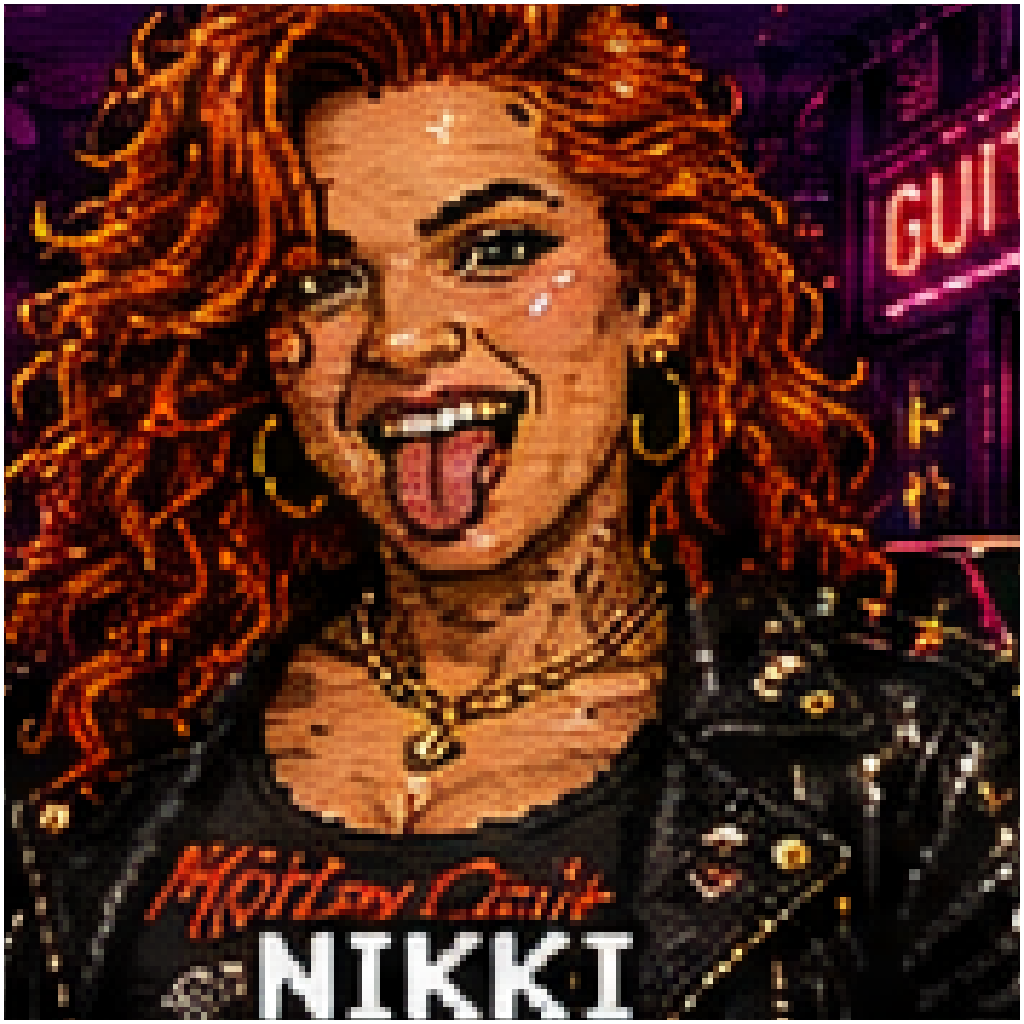
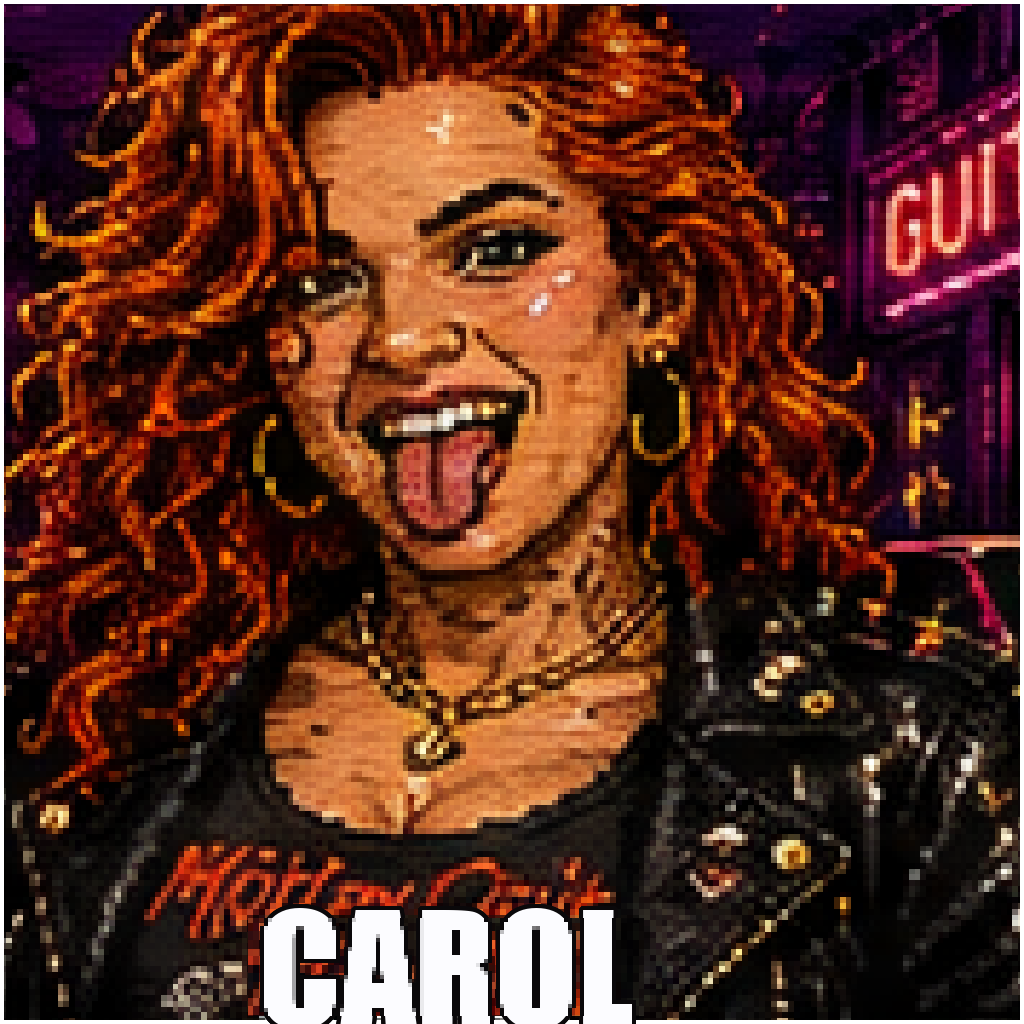
Ship Carol on the face grid and raise her and Enzo to the 80% AI ladder.
Puts Carol fourth instead of Flufe, paints the card nameplate, and keeps experts off Thunder Basin when the bobo lane runs short.

Changed region(s): [[0.2188, 0.875, 0.625, 1.0]]

diff --git a/tests/domain/ai/DriverProfile.test.ts b/tests/domain/ai/DriverProfile.test.ts
@@ -7,12 +7,13 @@ import {
   SIGNATURE_PROFILES,
 } from '../../../src/domain/ai/DriverProfile.ts';
 import { deriveProfile } from '../../../src/domain/ai/deriveProfile.ts';
+import { driverSkill } from '../../../src/domain/race/WatchField.ts';
 
 describe('driver profiles', () => {
   it('ships exactly 30 catalog rows', () => {
     expect(catalogSize()).toBe(30);
     expect(ALL_PROFILES).toHaveLength(30);
-    expect(SIGNATURE_PROFILES).toHaveLength(9);
+    expect(SIGNATURE_PROFILES).toHaveLength(10);
     expect(MEDIUM_PROFILES).toHaveLength(10);
   });
 
@@ -20,6 +21,10 @@ describe('driver profiles', () => {
     expect(profileFor('ALINE').id).toBe('aline');
     expect(profileFor('FLUFE').id).toBe('emma');
     expect(profileFor('EMMA').id).toBe('emma');
+    expect(profileFor('CAROL').id).toBe('nikki');
+    expect(profileFor('CAROL').displayName).toBe('CAROL');
+    expect(profileFor('CAROL').tier).toBe(DRIVER_PROFILE_TIER.SIGNATURE);
+    expect(profileFor('NIKKI').id).toBe('nikki');
     expect(profileFor('NEGAO').tier).toBe(DRIVER_PROFILE_TIER.SIGNATURE);
     expect(profileFor('KLYFF').vehiclePhysics).toBe(1);
     expect(profileFor('ALINE')).toEqual(profileFor('aline'));
@@ -43,6 +48,18 @@ describe('driver profiles', () => {
     const derived = deriveProfile(parent, 'VINCE');
     expect(Math.abs(derived.vehiclePhysics - parent.vehiclePhysics)).toBeLessThanOrEqual(0.08 * 0.35 + 1e-9);
     expect(derived.ram).toBeGreaterThan(0.8);
+  });
+
+  it('keeps the elite skill ladder: Klyff 100, Aline 90, Enzo and Carol 80', () => {
+    const klyff = driverSkill(profileFor('KLYFF'));
+    expect(klyff).toBeCloseTo(3, 5);
+    expect(driverSkill(profileFor('ALINE')) / klyff).toBeCloseTo(0.9, 5);
+    expect(driverSkill(profileFor('ENZO')) / klyff).toBeCloseTo(0.8, 5);
+    expect(driverSkill(profileFor('CAROL')) / klyff).toBeCloseTo(0.8, 5);
+    expect(profileFor('KLYFF').vehiclePhysics).toBe(1);
+    expect(profileFor('ALINE').vehiclePhysics).toBeCloseTo(0.9, 5);
+    expect(profileFor('ENZO').vehiclePhysics).toBeCloseTo(0.8, 5);
+    expect(profileFor('CAROL').vehiclePhysics).toBeCloseTo(0.8, 5);
   });
 
   it('never special-cases a name: every weight is 0..1', () => {

diff --git a/src/domain/ai/DriverProfile.ts b/src/domain/ai/DriverProfile.ts
@@ -4,7 +4,9 @@
  * `vehiclePhysics` and `localSteering` never mutate VehicleStats. They only
  * change how close the driver is willing/able to operate to the car's limits.
  *
- * Thirty rows: 9 signatures, 10 medium templates (derivation reserve), 11 derived.
+ * Thirty rows: 10 signatures, 10 medium templates (derivation reserve), 10 derived.
+ * Elite ladder (driverSkill = phys + steer + pred, max 3): KLYFF 3.0, ALINE 2.7
+ * (90%), ENZO and CAROL 2.4 (80%). vehiclePhysics never mutates VehicleStats.
  * GAMEPLAY TUNING STILL REQUIRED — these weights are a readable starting point.
  */
 
@@ -96,20 +98,32 @@ export const SIGNATURE_PROFILES: readonly DriverProfile[] = [
     block: 0.45,
     opponentPrediction: 0.9,
     opponentMemory: 0.4,
-    localSteering: 0.95,
-    vehiclePhysics: 0.98,
+    localSteering: 0.9,
+    vehiclePhysics: 0.9,
   }),
   row('enzo', 'ENZO', DRIVER_PROFILE_TIER.SIGNATURE, {
     attack: 0.85,
-    defend: 0.35,
+    defend: 0.42,
     overtake: 0.9,
     ram: 0.25,
     weapon: 0.4,
-    block: 0.3,
-    opponentPrediction: 0.7,
-    opponentMemory: 0.35,
-    localSteering: 0.7,
-    vehiclePhysics: 0.72,
+    block: 0.36,
+    opponentPrediction: 0.8,
+    opponentMemory: 0.5,
+    localSteering: 0.8,
+    vehiclePhysics: 0.8,
+  }),
+  row('nikki', 'CAROL', DRIVER_PROFILE_TIER.SIGNATURE, {
+    attack: 0.72,
+    defend: 0.48,
+    overtake: 0.82,
+    ram: 0.38,
+    weapon: 0.52,
+    block: 0.42,
+    opponentPrediction: 0.8,
+    opponentMemory: 0.55,
+    localSteering: 0.8,
+    vehiclePhysics: 0.8,
   }),
   row('emma', 'EMMA', DRIVER_PROFILE_TIER.SIGNATURE, {
     attack: 0.8,
@@ -315,7 +329,6 @@ export const MEDIUM_PROFILES: readonly DriverProfile[] = [
 export const DERIVED_SPECS = [
   { id: 'dave', displayName: 'DAVE', parentId: 'apex' },
   { id: 'razor', displayName: 'RAZOR', parentId: 'predator' },
-  { id: 'nikki', displayName: 'NIKKI', parentId: 'berserker' },
   { id: 'diego', displayName: 'DIEGO', parentId: 'guardian' },
   { id: 'luna', displayName: 'LUNA', parentId: 'technician' },
   { id: 'blaze', displayName: 'BLAZE', parentId: 'opportunist' },

diff --git a/src/domain/race/CareerGrid.ts b/src/domain/race/CareerGrid.ts
@@ -100,13 +100,22 @@ export function npcPilotNamesForPlanet(
   take('mediumSmart', mix.mediumSmart);
   take(SKILL_BAND.EXPERT, mix.experts);
 
+  let expertsTaken = picked.filter(name => careerSkillLane(name) === SKILL_BAND.EXPERT).length;
   for (const name of pickDistinctProfiles(pool, wanted)) {
     if (picked.length >= wanted) {
       break;
     }
-    if (!picked.includes(name)) {
-      usedProfiles.add(profileFor(name).id);
-      picked.push(name);
+    if (picked.includes(name)) {
+      continue;
+    }
+    const expert = careerSkillLane(name) === SKILL_BAND.EXPERT;
+    if (expert && expertsTaken >= mix.experts) {
+      continue;
+    }
+    usedProfiles.add(profileFor(name).id);
+    picked.push(name);
+    if (expert) {
+      expertsTaken += 1;
     }
   }
 

diff --git a/src/data/pilots/FaceTaglines.ts b/src/data/pilots/FaceTaglines.ts
@@ -7,10 +7,10 @@ const LINES: Readonly<Record<string, string>> = {
   KLYFF: 'He built this circus and he still shows up to race it.',
   ALINE: 'Owner of the RunnersCity beauty empire.',
   ENZO: 'The prodigy. Nobody can hold him.',
-  FLUFE: 'Secret Keeper of every side in RunnersCity.',
+  CAROL: 'Fire-haired rock girl with a wild laugh.',
   DAVE: 'A lightning-bolt tribute to David Bowie.',
   RAZOR: 'South Central punk who turned a switchblade into a wheel.',
-  NIKKI: 'Fire-haired rock girl with a wild laugh.',
+  FLUFE: 'Secret Keeper of every side in RunnersCity.',
   DIEGO: 'Biker chaplain of the Eastside.',
   LUNA: 'The tattooer who inks half the grid.',
   BLAZE: 'Rock-and-roll burnout with a perfect mullet.',

diff --git a/tests/domain/PilotRoster.test.ts b/tests/domain/PilotRoster.test.ts
@@ -15,6 +15,8 @@ describe('PilotRoster', () => {
     expect(a).toHaveLength(RIVALS_PER_SAVE);
     expect(REGULAR_PILOTS).toHaveLength(21);
     expect(REGULAR_PILOTS[0]).toBe('KLYFF');
+    expect(REGULAR_PILOTS[3]).toBe('CAROL');
+    expect(REGULAR_PILOTS[6]).toBe('FLUFE');
     expect(RIVALS_PER_SAVE).toBe(21);
     expect(new Set(a).size).toBe(RIVALS_PER_SAVE);
     expect(a.every(name => (REGULAR_PILOTS as readonly string[]).includes(name))).toBe(true);

diff --git a/src/data/cards/DriverCards.ts b/src/data/cards/DriverCards.ts
@@ -21,10 +21,10 @@ function card(name: string, file: string): DriverCard {
 export const DRIVER_CARDS: readonly DriverCard[] = [
   card('ALINE', 'Aline.png'),
   card('ENZO', 'enzo.png'),
-  card('FLUFE', 'flufe.png'),
+  card('CAROL', 'carol.png'),
   card('DAVE', 'dave.png'),
   card('RAZOR', 'razor.png'),
-  card('NIKKI', 'nikki.png'),
+  card('FLUFE', 'flufe.png'),
   card('DIEGO', 'diego.png'),
   card('LUNA', 'luna.png'),
   card('BLAZE', 'blaze.png'),

diff --git a/tests/data/DriverCards.test.ts b/tests/data/DriverCards.test.ts
@@ -26,6 +26,7 @@ describe('DriverCards', () => {
 
   it('looks up a pilot by race name', () => {
     expect(driverCardForName('aline')?.file).toBe('Aline.png');
+    expect(driverCardForName('CAROL')?.file).toBe('carol.png');
     expect(driverCardForName('FLUFE')?.file).toBe('flufe.png');
     expect(driverCardKey('Enzo')).toBe('driver-card:ENZO');
     expect(driverCardForName('ZARA')?.file).toBe('zara.png');

diff --git a/tests/domain/CareerGrid.test.ts b/tests/domain/CareerGrid.test.ts
@@ -31,10 +31,10 @@ describe('CareerGrid', () => {
     const rivals = [
       'ALINE',
       'ENZO',
-      'FLUFE',
+      'CAROL',
       'DAVE',
       'RAZOR',
-      'NIKKI',
+      'FLUFE',
       'DIEGO',
       'LUNA',
       'BLAZE',

diff --git a/src/domain/ai/DriverRoster.ts b/src/domain/ai/DriverRoster.ts
@@ -49,6 +49,7 @@ const NAME_TO_PROFILE_ID: Readonly<Record<string, string>> = {
   ZOR9: 'zor9',
   DAVE: 'dave',
   RAZOR: 'razor',
+  CAROL: 'nikki',
   NIKKI: 'nikki',
   DIEGO: 'diego',
   LUNA: 'luna',

diff --git a/src/data/pilots/PilotRoster.ts b/src/data/pilots/PilotRoster.ts
@@ -8,10 +8,10 @@ export const REGULAR_PILOTS = [
   'KLYFF',
   'ALINE',
   'ENZO',
-  'FLUFE',
+  'CAROL',
   'DAVE',
   'RAZOR',
-  'NIKKI',
+  'FLUFE',
   'DIEGO',
   'LUNA',
   'BLAZE',

diff --git a/docs/ia/profiles/catalog.md b/docs/ia/profiles/catalog.md
@@ -1,7 +1,10 @@
 # Catálogo de perfis NPC
 
 Fonte: `src/domain/ai/DriverProfile.ts`. 30 linhas. Nome de corrida resolve em `profileFor(name)` (`DriverRoster.ts`).
-FLUFE → EMMA. Nomes desconhecidos derivam de OPPORTUNIST.
+FLUFE → EMMA. NIKKI → CAROL. Nomes desconhecidos derivam de OPPORTUNIST.
+
+Escada de skill (`vehiclePhysics + localSteering + opponentPrediction`, máx. 3): **KLYFF 3.00 (100%)**, **ALINE 2.70 (90%)**, **ENZO / CAROL 2.40 (80%)**.
+`vehiclePhysics` / `localSteering` **não** mudam o carro.
 
 Os números são ponto de partida. `tuningStillRequired`:
 
@@ -12,13 +15,14 @@ Os números são ponto de partida. `tuningStillRequired`:
 - prediction horizon and memory decay
 - vehiclePhysics usable-fraction floors
 
-## Signature (9)
+## Signature (10)
 
 | name | id | parent | atk | def | ovr | ram | wpn | blk | pred | mem | steer | phys |
 |---|---|---|---|---|---|---|---|---|---|---|---|---|
 | KLYFF | klyff | — | 0.55 | 0.75 | 0.85 | 0.15 | 0.50 | 0.50 | 1.00 | 0.45 | 1.00 | 1.00 |
-| ALINE | aline | — | 0.60 | 0.55 | 0.95 | 0.10 | 0.45 | 0.45 | 0.90 | 0.40 | 0.95 | 0.98 |
-| ENZO | enzo | — | 0.85 | 0.35 | 0.90 | 0.25 | 0.40 | 0.30 | 0.70 | 0.35 | 0.70 | 0.72 |
+| ALINE | aline | — | 0.60 | 0.55 | 0.95 | 0.10 | 0.45 | 0.45 | 0.90 | 0.40 | 0.90 | 0.90 |
+| ENZO | enzo | — | 0.85 | 0.42 | 0.90 | 0.25 | 0.40 | 0.36 | 0.80 | 0.50 | 0.80 | 0.80 |
+| CAROL | nikki | — | 0.72 | 0.48 | 0.82 | 0.38 | 0.52 | 0.42 | 0.80 | 0.55 | 0.80 | 0.80 |
 | EMMA | emma | — | 0.80 | 0.20 | 0.70 | 0.35 | 0.95 | 0.25 | 0.55 | 0.50 | 0.50 | 0.48 |
 | VIKTOR | viktor | — | 0.70 | 0.95 | 0.40 | 0.55 | 0.50 | 0.95 | 0.75 | 0.80 | 0.70 | 0.78 |
 | SEAMUS | seamus | — | 1.00 | 0.20 | 0.60 | 1.00 | 0.90 | 0.60 | 0.40 | 0.95 | 0.45 | 0.45 |
@@ -30,32 +34,31 @@ Os números são ponto de partida. `tuningStillRequired`:
 
 | name | id | parent | atk | def | ovr | ram | wpn | blk | pred | mem | steer | phys |
 |---|---|---|---|---|---|---|---|---|---|---|---|---|
-| APEX | apex | — | 0.60 | 0.55 | 0.95 | 0.10 | 0.45 | 0.45 | 0.90 | 0.40 | 0.95 | 0.98 |
+| APEX | apex | — | 0.60 | 0.55 | 0.85 | 0.10 | 0.45 | 0.45 | 0.75 | 0.40 | 0.80 | 0.78 |
 | PREDATOR | predator | — | 0.90 | 0.45 | 0.80 | 0.55 | 0.85 | 0.55 | 0.90 | 0.75 | 0.80 | 0.80 |
 | ENFORCER | enforcer | — | 0.90 | 0.70 | 0.45 | 0.98 | 0.55 | 0.85 | 0.55 | 0.75 | 0.50 | 0.75 |
 | GUNSLINGER | gunslinger | — | 0.85 | 0.40 | 0.55 | 0.20 | 1.00 | 0.35 | 0.95 | 0.75 | 0.65 | 0.70 |
 | GUARDIAN | guardian | — | 0.35 | 0.98 | 0.60 | 0.30 | 0.40 | 0.95 | 0.80 | 0.65 | 0.85 | 0.85 |
-| OPPORTUNIST | opportunist | — | 0.65 | 0.60 | 0.85 | 0.35 | 0.70 | 0.60 | 0.90 | 0.70 | 0.85 | 0.85 |
+| OPPORTUNIST | opportunist | — | 0.65 | 0.60 | 0.75 | 0.35 | 0.70 | 0.60 | 0.72 | 0.55 | 0.70 | 0.68 |
 | BERSERKER | berserker | — | 1.00 | 0.20 | 0.60 | 1.00 | 0.90 | 0.60 | 0.40 | 0.95 | 0.45 | 0.45 |
 | TECHNICIAN | technician | — | 0.55 | 0.75 | 0.80 | 0.20 | 0.60 | 0.65 | 1.00 | 0.80 | 1.00 | 1.00 |
-| SLIPSTREAMER | slipstreamer | — | 0.45 | 0.45 | 1.00 | 0.10 | 0.35 | 0.35 | 0.85 | 0.35 | 0.95 | 0.90 |
+| SLIPSTREAMER | slipstreamer | — | 0.45 | 0.45 | 0.90 | 0.10 | 0.35 | 0.35 | 0.72 | 0.35 | 0.78 | 0.72 |
 | NEMESIS | nemesis | — | 0.90 | 0.55 | 0.65 | 0.80 | 0.80 | 0.65 | 0.90 | 1.00 | 0.75 | 0.75 |
 
-## Derived (11)
+## Derived (10)
 
 | name | id | parent | atk | def | ovr | ram | wpn | blk | pred | mem | steer | phys |
 |---|---|---|---|---|---|---|---|---|---|---|---|---|
-| DAVE | dave | apex | 0.53 | 0.56 | 1.00 | 0.08 | 0.50 | 0.38 | 0.89 | 0.32 | 0.96 | 0.97 |
+| DAVE | dave | apex | 0.53 | 0.56 | 0.91 | 0.08 | 0.50 | 0.38 | 0.74 | 0.32 | 0.81 | 0.77 |
 | RAZOR | razor | predator | 0.89 | 0.47 | 0.82 | 0.53 | 0.77 | 0.61 | 0.84 | 0.68 | 0.78 | 0.80 |
-| NIKKI | nikki | berserker | 1.00 | 0.27 | 0.61 | 1.00 | 0.87 | 0.61 | 0.39 | 1.00 | 0.46 | 0.42 |
 | DIEGO | diego | guardian | 0.34 | 0.93 | 0.63 | 0.24 | 0.41 | 0.98 | 0.80 | 0.71 | 0.82 | 0.84 |
 | LUNA | luna | technician | 0.49 | 0.69 | 0.79 | 0.21 | 0.53 | 0.58 | 1.00 | 0.79 | 1.00 | 1.00 |
-| BLAZE | blaze | opportunist | 0.64 | 0.52 | 0.81 | 0.33 | 0.70 | 0.56 | 0.93 | 0.75 | 0.86 | 0.85 |
-| KIRA | kira | slipstreamer | 0.38 | 0.45 | 1.00 | 0.13 | 0.42 | 0.41 | 0.80 | 0.28 | 0.97 | 0.88 |
+| BLAZE | blaze | opportunist | 0.64 | 0.52 | 0.71 | 0.33 | 0.70 | 0.56 | 0.75 | 0.60 | 0.71 | 0.68 |
+| KIRA | kira | slipstreamer | 0.38 | 0.45 | 0.92 | 0.13 | 0.42 | 0.41 | 0.67 | 0.28 | 0.80 | 0.70 |
 | SNAKE | snake | nemesis | 0.84 | 0.55 | 0.69 | 0.85 | 0.80 | 0.67 | 0.92 | 1.00 | 0.74 | 0.77 |
 | RIO | rio | enforcer | 0.88 | 0.73 | 0.47 | 0.97 | 0.63 | 0.86 | 0.48 | 0.73 | 0.49 | 0.76 |
 | JETT | jett | gunslinger | 0.85 | 0.45 | 0.63 | 0.20 | 1.00 | 0.29 | 0.87 | 0.80 | 0.63 | 0.71 |
-| NOVA | nova | opportunist | 0.68 | 0.58 | 0.91 | 0.29 | 0.75 | 0.58 | 0.87 | 0.64 | 0.83 | 0.88 |
+| NOVA | nova | opportunist | 0.68 | 0.58 | 0.81 | 0.29 | 0.75 | 0.58 | 0.69 | 0.49 | 0.68 | 0.71 |
 
 ## Aliases extra resolvidos nesta dump
 
@@ -68,4 +71,5 @@ Os números são ponto de partida. `tuningStillRequired`:
 | RUBY | RUBY | ruby | derived | slipstreamer |
 | HEX | HEX | hex | derived | technician |
 | FLUFE | EMMA | emma | signature | — |
+| NIKKI | CAROL | nikki | signature | — |
 | UNKNOWN | UNKNOWN | unknown | derived | opportunist |

diff --git a/public/assets/cards/PLAYER_CARDS.md b/public/assets/cards/PLAYER_CARDS.md
@@ -44,9 +44,9 @@ Make it in 16-bit like the card that is in public/assets/cards/klyff.png
 The prodigy. At 7 he was already driving and stealing his father's car. Now a teenager, nobody can hold him. Skinny Italian-Brazilian kid, messy black hair, braces, huge wild grin, tongue almost out, oversized racing jacket, scuffed sneakers. Hollywood Hills night behind him, a stolen muscle car with the door open.
 Make it in 16-bit like the card that is in public/assets/cards/klyff.png
 
-### 3. FLUFE (Emma / Chimbeler)
-**Race name:** FLUFE
-Also known as Emma, also known as Chimbeler. Secret Keeper of every side in RunnersCity. Looks harmless. She is a Pomeranian who drives like a lunatic on wheels. If you need to know something, find her. Small East-Asian woman, huge curly blonde-tinted hair, tiny frame, innocent doll eyes, pink choker, too many rings, a fluffy coat. She is giggling. Santa Monica pier carousel lights behind her.
+### 3. CAROL
+**Race name:** CAROL
+Fire-haired rock girl, Irish-American, freckles, red lipstick, leather mini and a torn band tee. She is sticking her tongue out with a wild laugh. Hollywood guitar-shop neon and a pink convertible behind her.
 Make it in 16-bit like the card that is in public/assets/cards/klyff.png
 
 ### 4. DAVE BOWN
@@ -59,9 +59,9 @@ Make it in 16-bit like the card that is in public/assets/cards/klyff.png
 Black punk from South Central who turned a switchblade into a steering wheel. Towering, dark skin, tall green liberty-spike mohawk, septum ring, scar through the eyebrow, leather vest, no shirt, tattoos up the neck. He is laughing with all his teeth. Graffiti wall and a chopped Harley behind him.
 Make it in 16-bit like the card that is in public/assets/cards/klyff.png
 
-### 6. NIKKI
-**Race name:** NIKKI
-Fire-haired rock girl, Irish-American, freckles, red lipstick, leather mini and a torn band tee. She is sticking her tongue out with a wild laugh. Hollywood guitar-shop neon and a pink convertible behind her.
+### 6. FLUFE (Emma / Chimbeler)
+**Race name:** FLUFE
+Also known as Emma, also known as Chimbeler. Secret Keeper of every side in RunnersCity. Looks harmless. She is a Pomeranian who drives like a lunatic on wheels. If you need to know something, find her. Small East-Asian woman, huge curly blonde-tinted hair, tiny frame, innocent doll eyes, pink choker, too many rings, a fluffy coat. She is giggling. Santa Monica pier carousel lights behind her.
 Make it in 16-bit like the card that is in public/assets/cards/klyff.png
 
 ### 7. DIEGO
